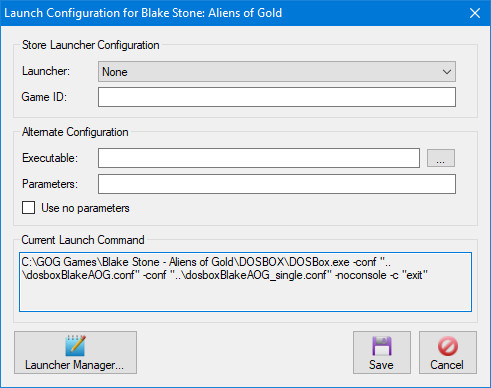
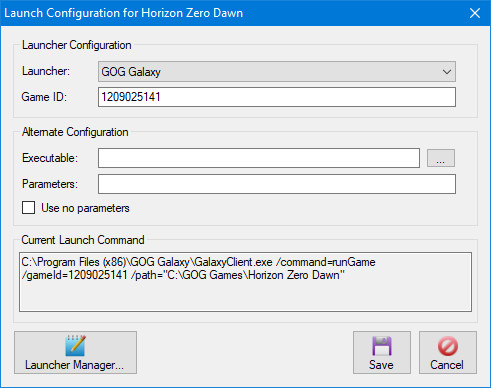
v127 updates for manual

diff --git a/manual.html b/manual.html
@@ -30,10 +30,10 @@
       <div id="leftcontent">
         <div class="pageSection">
           <div class="pageSectionHeader">
-            Game Backup Monitor v1.2.5 Manual
+            Game Backup Monitor v1.2.7 Manual
           </div>
           <div class="pageSectionContent">
-            <h3 class="notop">Updated March 4, 2021</h3>
+            <h3 class="notop">Updated April 27, 2021</h3>
             <h3>Important Notes:</h3>
             <p>An offline version of the manual is available <a href="https://github.com/Darthagnon/gbm-manual">here</a>.  The offline manual is kindly provided by <a href="https://github.com/Darthagnon">Darthagnon</a>.</p>
             <p>This manual may contain information about features not available in the current stable release.</p>
@@ -187,6 +187,13 @@
             <p>This will require GBM to show a standard Windows notification when a game is detected.</p>
             <h4>Detection Speed:</h4>
             <p>This allows you to customize how fast GBM will detect games.  A slower setting will reduce CPU usage when monitoring for a large amount of games.</p>
+            <h4>Two-Pass Detection:</h4>
+            <p>This setting allows you to customize the method GBM uses to detect games.  
+              <ul>
+                <li>When Two-Pass Detection is enabled, the same process needs to be found on two consecutive detection passes to trigger GBM.  This makes detection slower, but more reliable.  This is the default.</li>
+                <li>When Two-Pass Detection is disabled, a process is registered as detected after a single pass.  This makes detection twice as fast, but it may be unreliable in certain situations.</li>
+              </ul>
+            </p>
             <h4>Disable sync event messages:</h4>
             <p>This will prevent all sync related messages from being displayed in the log.</p>
             <h4>Autosave log when max length is exceeded:</h4>
@@ -595,7 +602,7 @@
             <p>GBM will usually be able to launch any monitored game that has been detected at least once without any extra configuration.  Advanced configuration options are also provided for fine tuning and to work around any problems that may be encountered.</p>            
             <p>The launch settings for any game can be modified from the Game Manager, by clicking the <img class="manualbutton" src="images/manual/buttons/frmGameManager_Advanced.png" width="16" height="16" alt="Tools" /> (Advanced) button and choosing "Launch Settings..." to open "Launch Configuration".</p>
             <img class="manual" src="images/manual/manual_28.jpg" width="491" height="388" alt="Launch Configuration" />
-            <h4>Store Launcher Configuration</h4>
+            <h4>Launcher Configuration</h4>
             <p>This section allows you to configure a game to be launched directly from the store client where it was purchased.  This is sometimes required due to <a href="https://en.wikipedia.org/wiki/Digital_rights_management" target=_blank>DRM issues</a> or bugs that occur when a game doesn't support launching the executable directly.  This will be explained in the "Launcher Manager" and "Determining the Command & Game ID" sections below.</p>
             <h4>Alternate Configuration</h4>
             <p>This section allows you to manually configure a game to use an alternate executable/script and customize how command parameters are to be handled.</p>
@@ -603,7 +610,7 @@
             <p>This section displays the command that GBM will use to launch the game.  This field cannot be edited directly, it is provided for troubleshooting and informational purposes.</p>
             <p>GBM uses a priority system to build the launch command based on the information it has available.</p>
             <ol>
-              <li>When an external store launcher and game ID are set, it has top priority and will be used to launch the game.</li>
+              <li>When an external launcher and game ID are set, it has top priority and will be used to launch the game.</li>
               <li>When an alternate executable is set, it has secondary priority.</li>
               <li>When no other information is available, GBM will use the "Process" and "Game Path" from the game configuration to automatically build the launch command.</li>                           
             </ol>
@@ -616,25 +623,40 @@
             </ol>
             <h3>Launcher Manager</h3>
             <p>The "Launcher Manager" is used to configure common external launchers you may need for launching games.</p>
-            <p>Some popular store launchers will be automatically added and configured for your convenience.</p>
+            <p>Some popular launchers will be automatically added and configured for your convenience.  Currently, executable based launchers (GOG Galaxy) will only be automatically configured when installed to their default location.</p>
             <img class="manual" src="images/manual/manual_29.jpg" width="586" height="248" alt="Launcher Manager" />
+            <h4>Launcher Type:</h4>
+            <p>This setting indicates the type of launcher:
+              <ul>
+                <li>URI - The launcher uses a uniform resource identifier to start games.</li>
+                <li>Executable - The launcher starts games using it's own executable file and parameters.</li>
+              </ul>
+            </p>
             <h4>Name:</h4>
             <p>This field is an identifier for the launcher, it must be unique.</p>
-            <h4>Command:</h4>
-            <p>This field is the URI command used to trigger a game launch from this particular launcher.  Currently, only launchers that can be triggered with a URI are supported.</p>
-            <p>An %ID% variable should replace the part of the command that contains the ID of the game being launched.  This variable refers to the "Game ID" field from the "Launch Configuration" screen.</p>
-            <p>If the %ID% variable is missing, GBM will assume it belongs at the end of the command.</p>
+            <h4>Command / Executable:</h4>
+            <p>This field is the URI command or Executable used to trigger a game launch from this particular launcher, it changes based on the "Launcher Type" setting.</p>
+            <h4>Parameters:</h4>
+            <p>This field is for the parameters used by an "Executable" type launcher to start a game, it is disabled when configuring a URI launcher.</p>
+            <h4>Variables:</h4>
+            <p>Various variables can be used in the configuration of launchers, either in the URI "Command" or the Executable "Parameters" field.
+              <ul>
+                <li>%ID% - The external "Game ID" from the "Launch Configuration" screen.</li>
+                <li>%INTERNALID% - The internal "Game ID" assigned by GBM.</li>
+                <li>%NAME% - The full name of the game.</li>
+                <li>%PROCESS% - The process name of the game (does not include file extensions).</li>
+                <li>%PARAMETER% - The parameters GBM uses to detect and/or launch the game.</li>
+                <li>%GAMEPATH% - The working path of the game's process.</li>
+              </ul>            
+            </p>
             <h4>Add Defaults</h4>
-            <p>If you accidently deleted any of the default launchers, you can easily re-add them using this button.</p>            
+            <p>If any of the default launchers are missing or have been removed, you can re-add them using this button.</p>
             <h3>Determining the Command & Game ID</h3>
             <p>The best way to determine both the command used by a launcher and the ID of the game you want to launch, is to create a shortcut for the game from the launcher and view the properties.</p>
             <img class="manual" src="images/manual/manual_31.jpg" width="363" height="509" alt="Launcher Shortcut" /><br />            
             <p>The URL field will contain the command used to trigger the launcher.  You can usually determine the game ID based on the context of the command.</p>
-            <img class="manual" src="images/manual/manual_30.jpg" width="491" height="388" alt="Store Launcher Configuration" /><br />
-            <p>The "Current Launch Command" should match the shortcut once you've configured everything properly.</p>
-            <h3>Unsupported Launchers</h3>
-            <p>Launchers that are called directly by their executable to start a game (such as GOG Galaxy) are not currently supported.  However, you can still trigger a game to start with an unsupported launcher by using alternate executables and parameters on the "Launch Configuration" screen.</p>
-            <img class="manual" src="images/manual/manual_32.jpg" width="491" height="388" alt="Unsupported Lanucher Configuration" /><br />            
+            <img class="manual" src="images/manual/manual_30.jpg" width="491" height="388" alt="Launcher Configuration" /><br />
+            <p>The "Current Launch Command" should match the shortcut once you've configured everything properly.</p>            
           </div>
           <div class="pageSectionFooter">
             <a href="#toc">Back to Contents</a>
